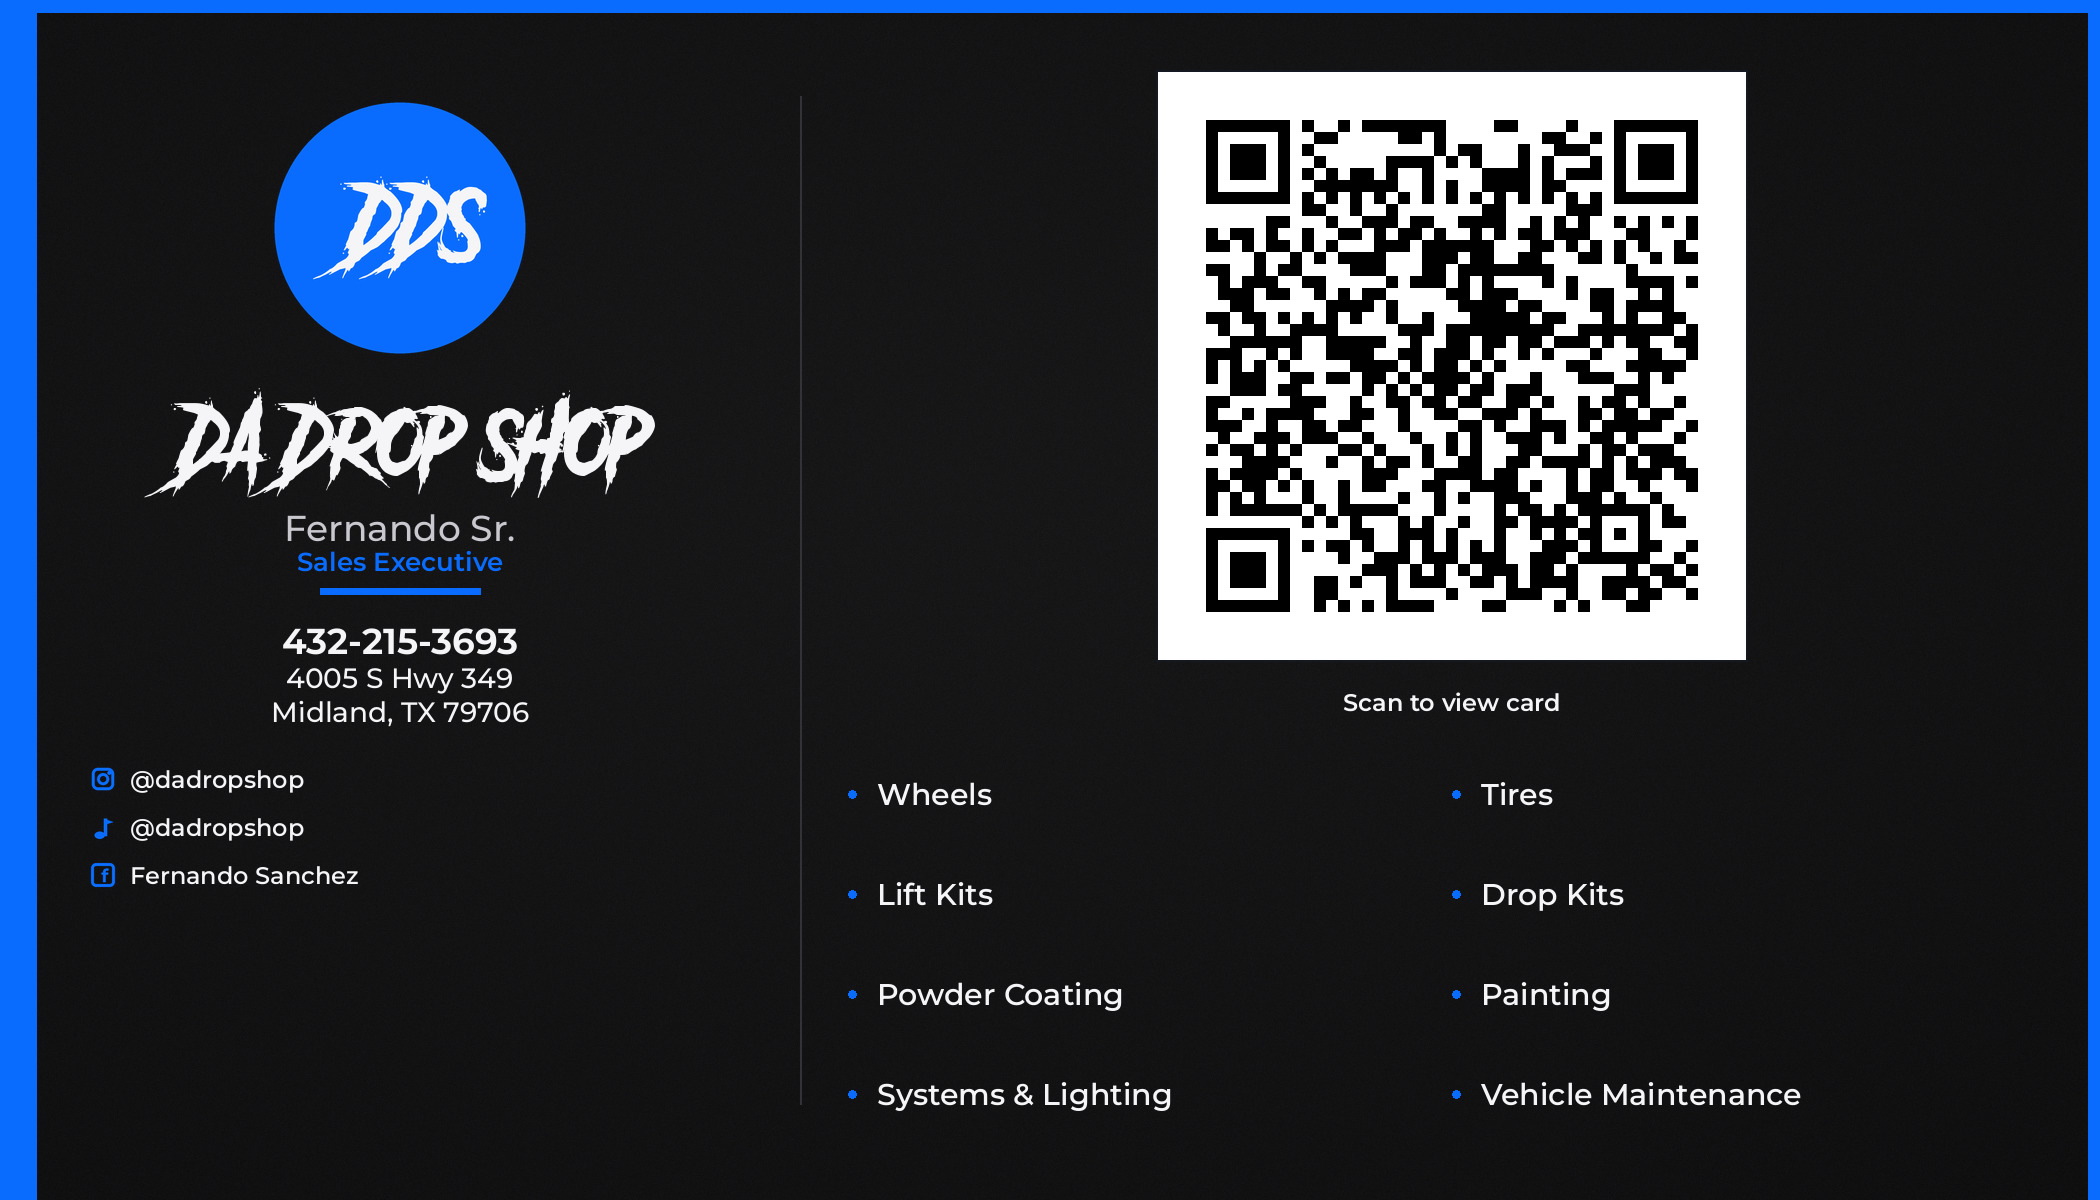
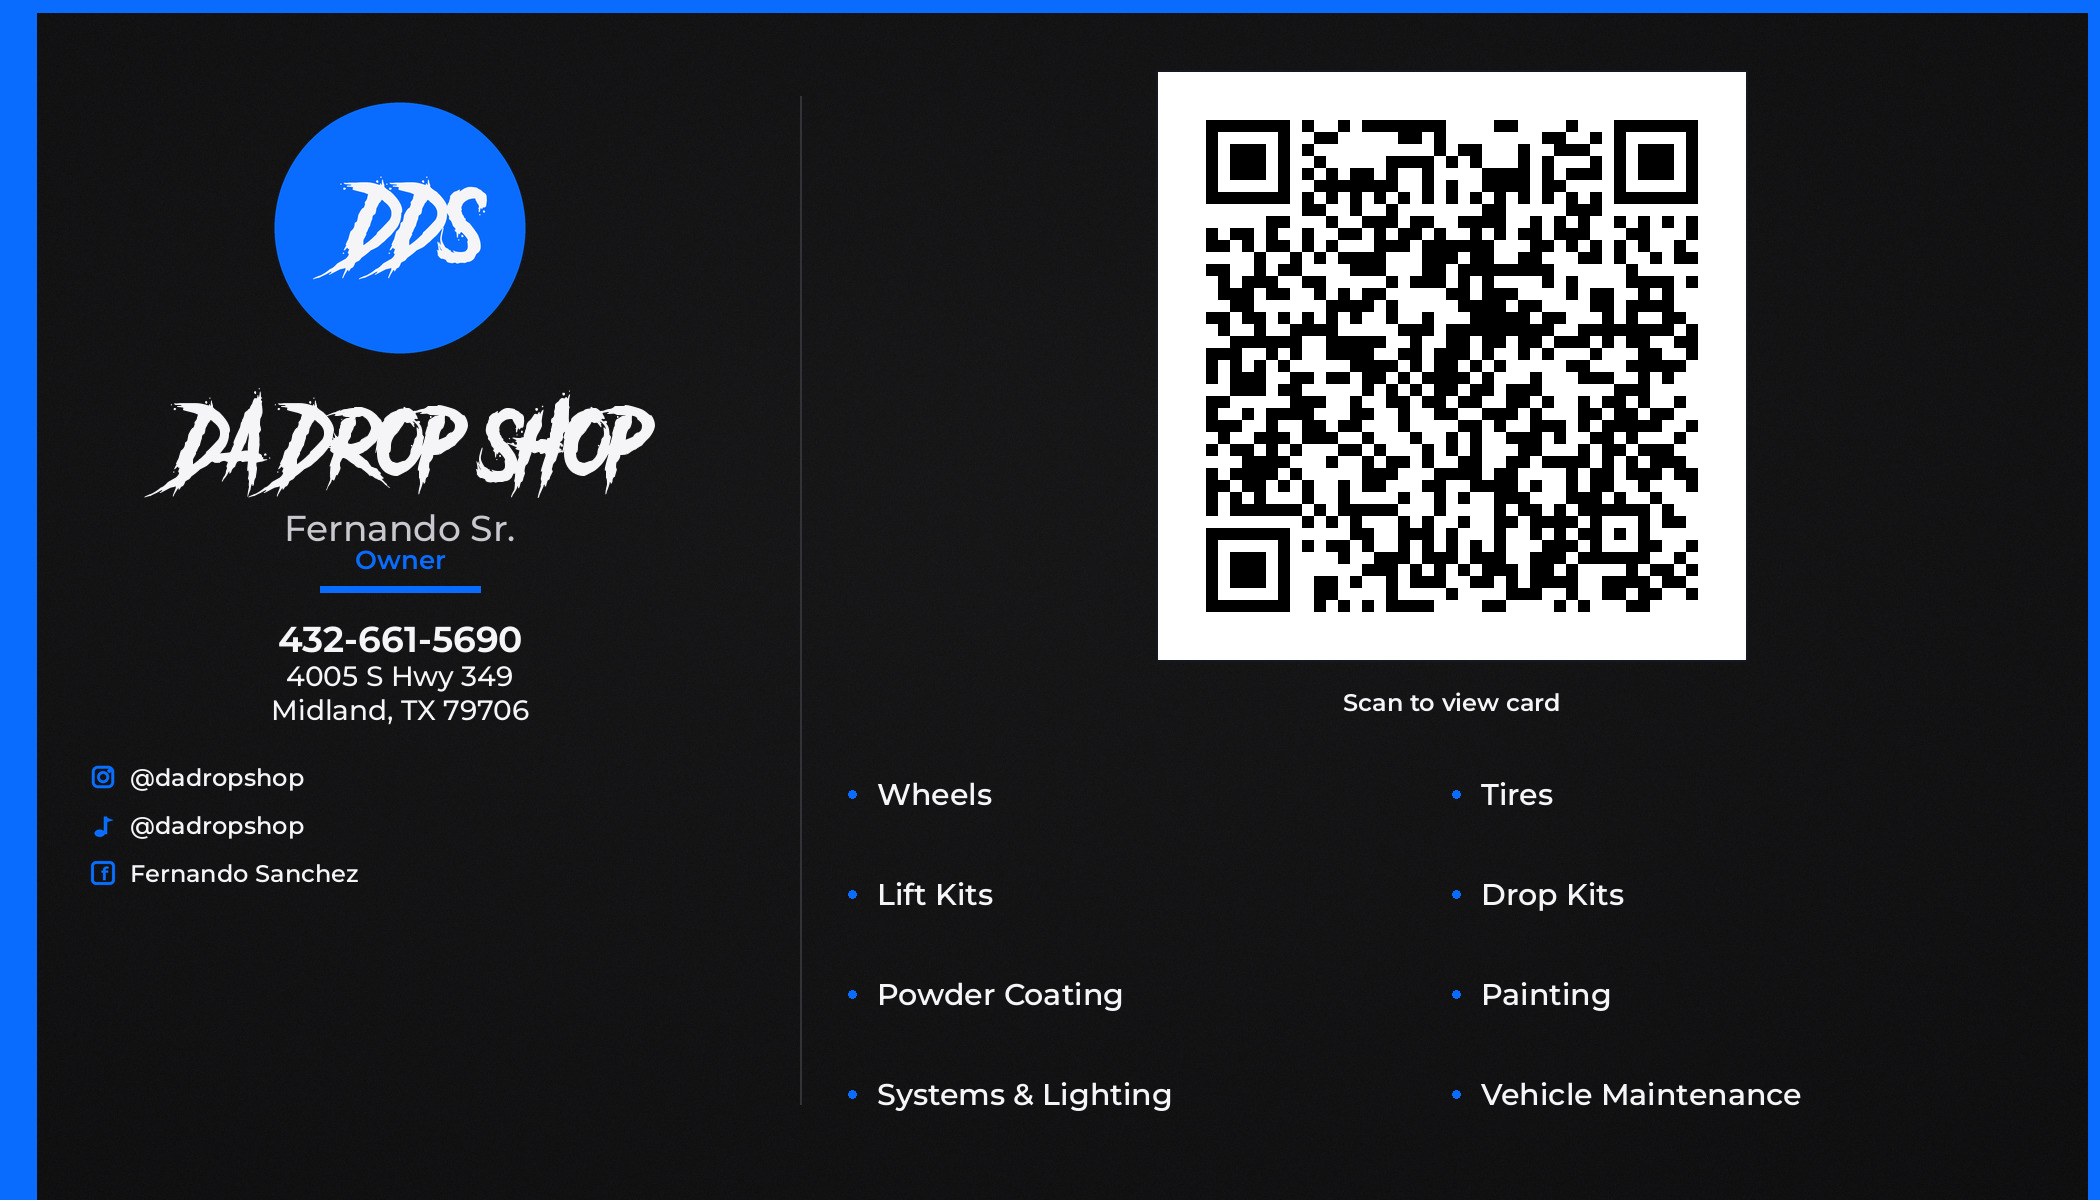
Update Fernando Sr. title to Owner and phone to 432-661-5690
Card images, vCard, PDFs, and page meta now use Owner and the new number.

Changed region(s): [[0.1238, 0.4625, 0.2476, 0.6167], [0.031, 0.6475, 0.1857, 0.74]]

diff --git a/index.html b/index.html
@@ -5,7 +5,7 @@
 <meta name="viewport" content="width=device-width, initial-scale=1, viewport-fit=cover">
 <meta name="author" content="Timothy Ivins">
 <meta name="copyright" content="© 2026 Timothy Ivins">
-<meta name="description" content="Digital business card for Da Drop Shop, Fernando Sr., Sales Executive. Services: wheels, tires, lift kits, drop kits, powder coating, painting, systems and lighting, and vehicle maintenance. Design by Timothy Ivins.">
+<meta name="description" content="Digital business card for Da Drop Shop, Fernando Sr., Owner. Services: wheels, tires, lift kits, drop kits, powder coating, painting, systems and lighting, and vehicle maintenance. Design by Timothy Ivins.">
 <meta name="theme-color" content="#0A6CFF">
 <title>Da Drop Shop - Fernando Sr.</title>
 <link rel="canonical" href="https://fernsjr.github.io/dadropshop-card-sr/">
@@ -13,16 +13,16 @@
 <link rel="apple-touch-icon" href="apple-touch-icon.png">
 <meta property="og:type" content="website">
 <meta property="og:site_name" content="Da Drop Shop">
-<meta property="og:title" content="Da Drop Shop - Fernando Sr., Sales Executive">
-<meta property="og:description" content="Sales Executive at Da Drop Shop. Wheels, tires, lift kits, drop kits, powder coating, painting, systems and lighting, and vehicle maintenance. Midland, TX.">
+<meta property="og:title" content="Da Drop Shop - Fernando Sr., Owner">
+<meta property="og:description" content="Owner at Da Drop Shop. Wheels, tires, lift kits, drop kits, powder coating, painting, systems and lighting, and vehicle maintenance. Midland, TX.">
 <meta property="og:url" content="https://fernsjr.github.io/dadropshop-card-sr/">
 <meta property="og:image" content="https://fernsjr.github.io/dadropshop-card-sr/og-image.jpg">
-<meta property="og:image:alt" content="Da Drop Shop business card, Fernando Sr., Sales Executive">
+<meta property="og:image:alt" content="Da Drop Shop business card, Fernando Sr., Owner">
 <meta property="og:image:width" content="1200">
 <meta property="og:image:height" content="630">
 <meta name="twitter:card" content="summary_large_image">
-<meta name="twitter:title" content="Da Drop Shop - Fernando Sr., Sales Executive">
-<meta name="twitter:description" content="Sales Executive at Da Drop Shop. Wheels, tires, lift kits, drop kits, powder coating, painting, systems and lighting, and vehicle maintenance. Midland, TX.">
+<meta name="twitter:title" content="Da Drop Shop - Fernando Sr., Owner">
+<meta name="twitter:description" content="Owner at Da Drop Shop. Wheels, tires, lift kits, drop kits, powder coating, painting, systems and lighting, and vehicle maintenance. Midland, TX.">
 <meta name="twitter:image" content="https://fernsjr.github.io/dadropshop-card-sr/og-image.jpg">
 <style>
 * { box-sizing: border-box; margin: 0; padding: 0; }
@@ -136,8 +136,8 @@ html, body {
 </head>
 <body>
   <main class="wrap">
-    <img class="hero" src="DaDropShop_card.jpg" width="1080" height="1920" alt="Da Drop Shop business card, Fernando Sr., Sales Executive">
-    <a class="btn" href="tel:+14322153693">Call 432-215-3693</a>
+    <img class="hero" src="DaDropShop_card.jpg" width="1080" height="1920" alt="Da Drop Shop business card, Fernando Sr., Owner">
+    <a class="btn" href="tel:+14326615690">Call 432-661-5690</a>
     <a class="btn secondary" href="https://maps.google.com/?q=4005+S+Hwy+349,+Midland,+TX+79706">Directions</a>
     <a class="btn secondary" href="FernandoSr.vcf" download="FernandoSr.vcf">Save Contact</a>
     <div class="socials">
